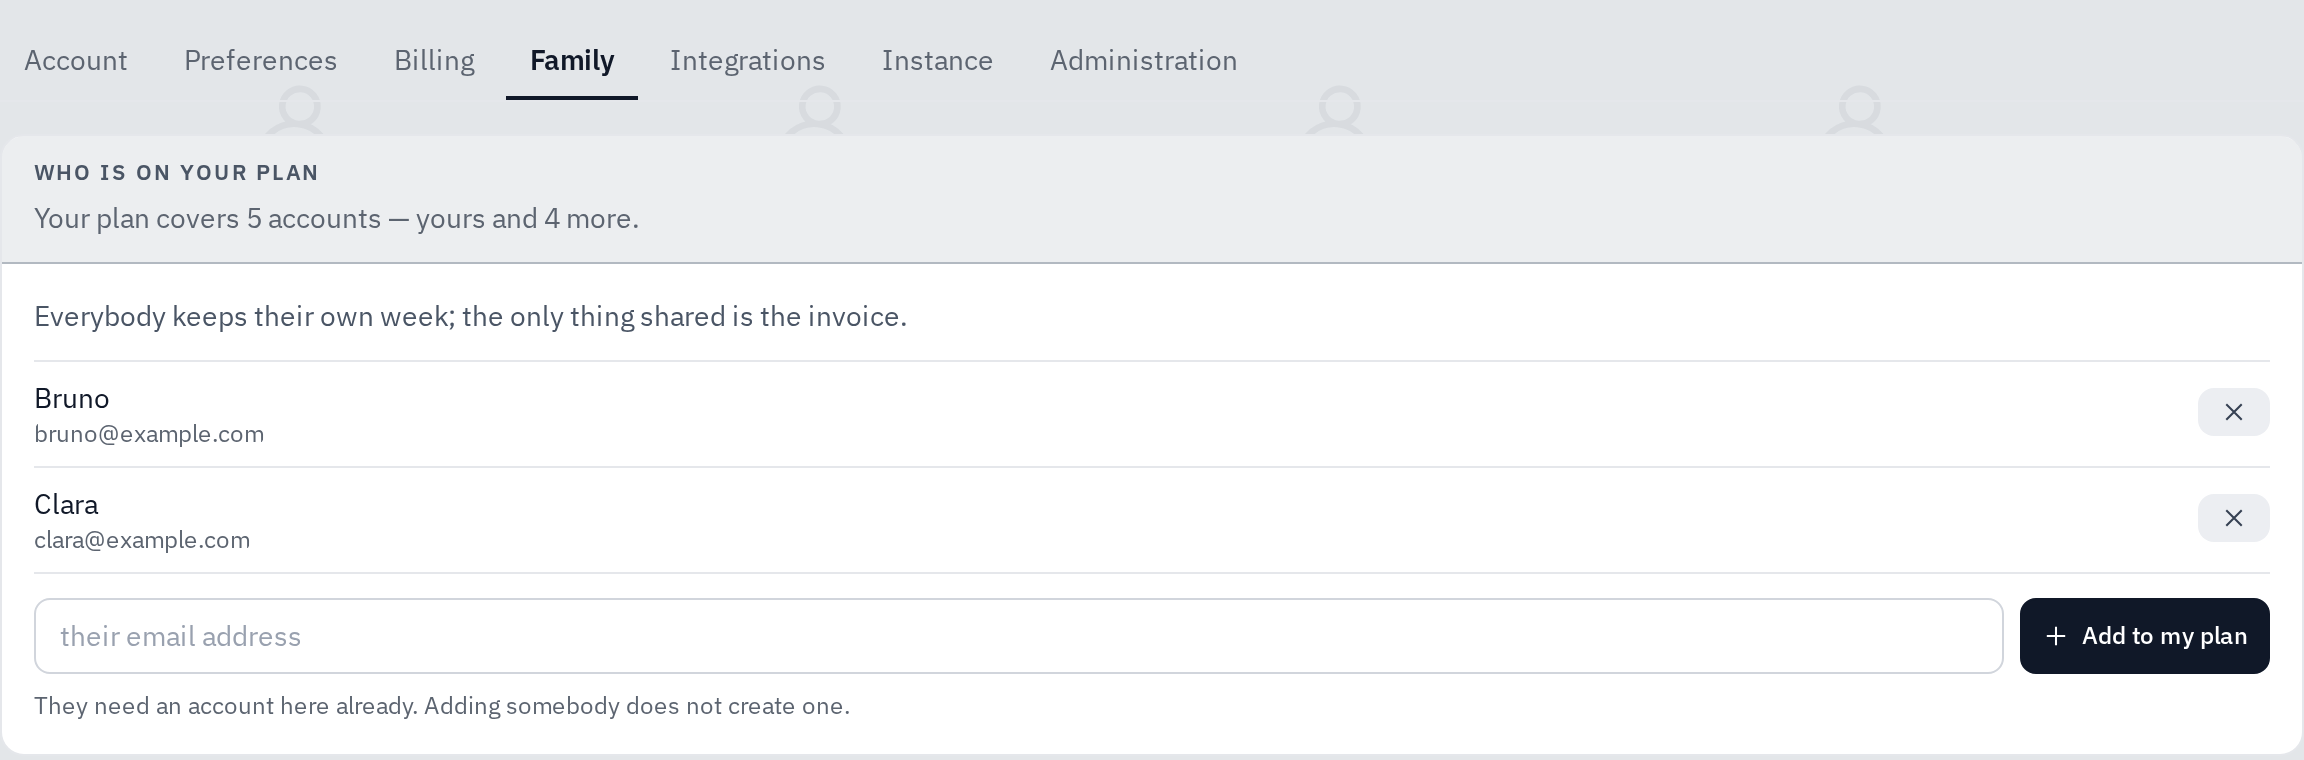
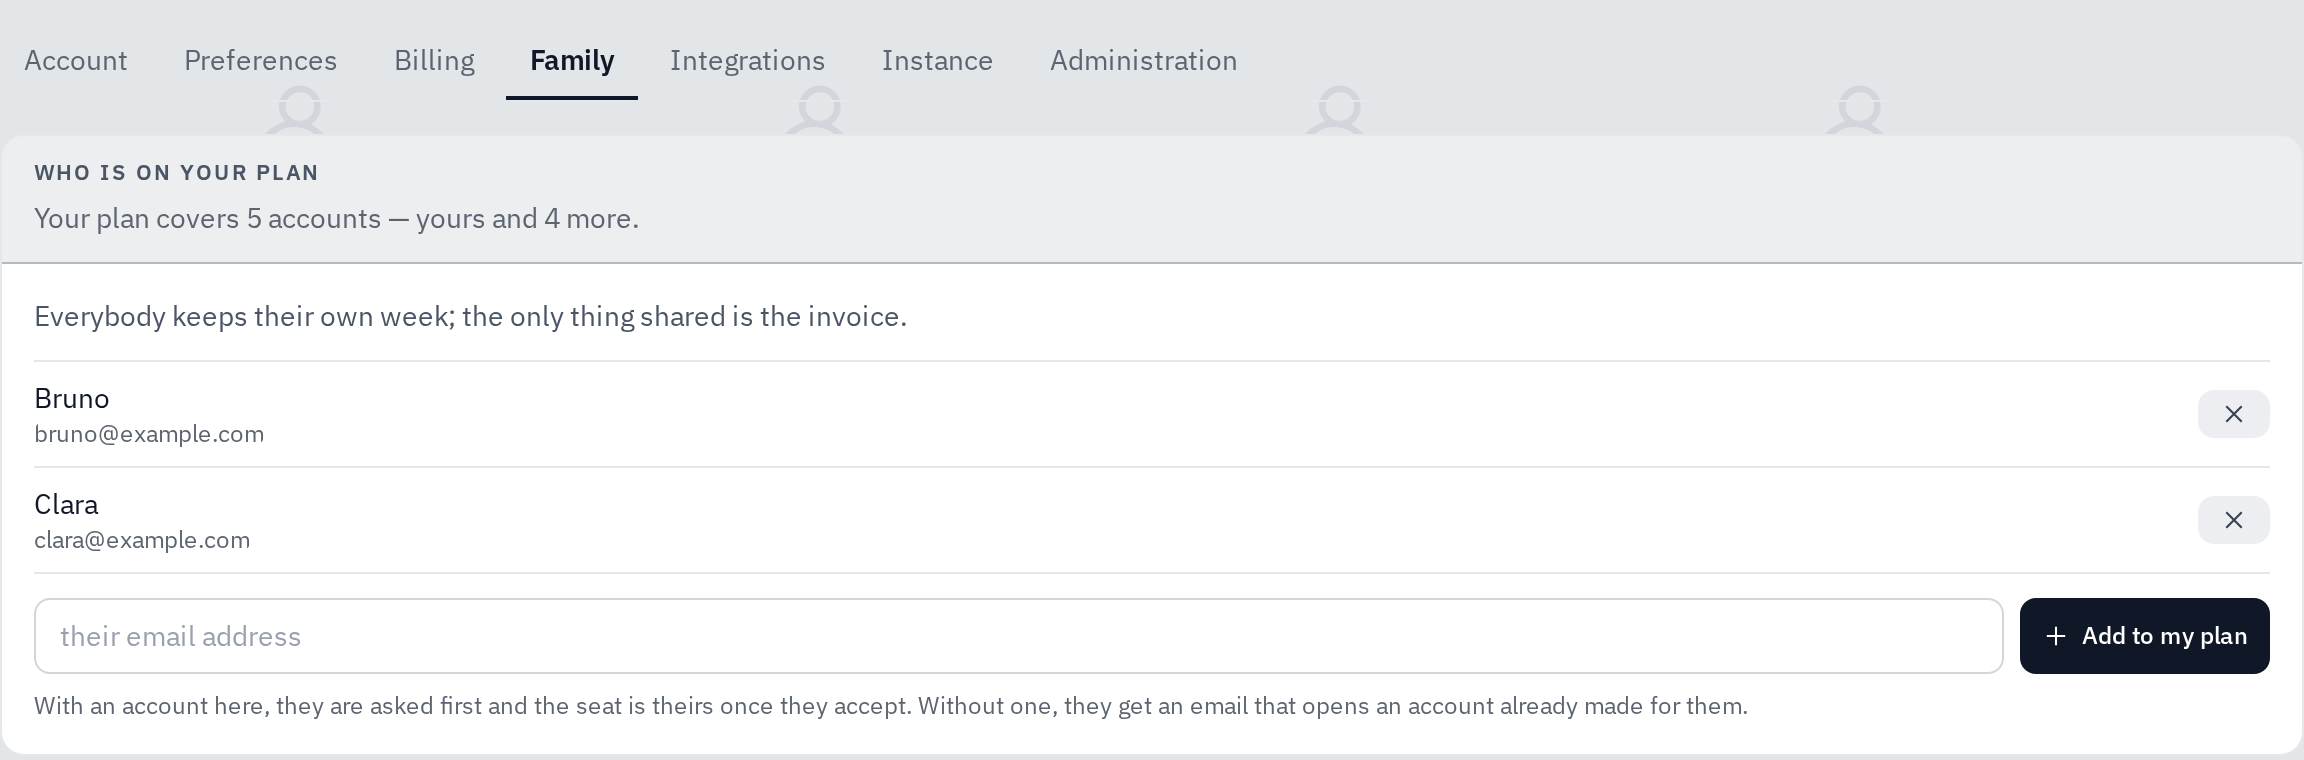
docs: the family help picture teaches the consent flow (#609)
The screenshot still said adding somebody does not create an account, and
the caption said the seat lands straight away — both true before #602 and
false since. Retaken from the real page, seats accepted so they render as
members.

Changed region(s): [[0.0, 0.9079, 0.75, 0.9382]]

diff --git a/src/routes/settings/billing/+page.svelte b/src/routes/settings/billing/+page.svelte
@@ -279,7 +279,8 @@
 							loading="lazy"
 						/>
 						<p class="mt-2 text-xs text-gray-500">
-							It takes effect here straight away, and this page goes quiet.
+							A band appears at the top of your app asking whether to accept. Say yes and this page
+							goes quiet.
 						</p>
 						<button type="button" class="btn btn-sm mt-3" onclick={() => (onSomebodyElses = false)}>
 							<Icon name="arrow-left" /> Back
